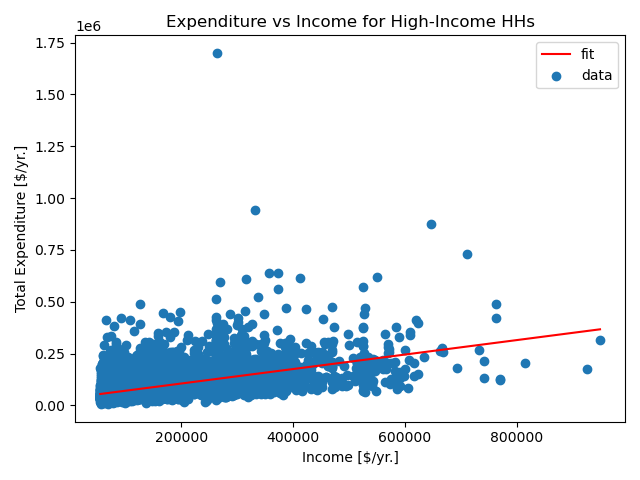
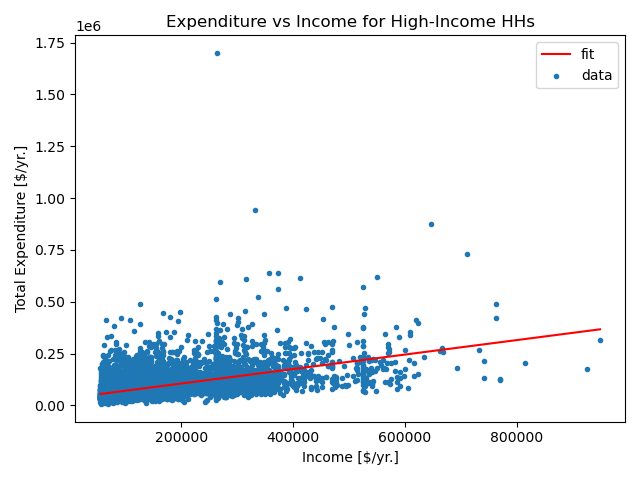
Smaller scatter points for clarity

diff --git a/HW2/SS340_HW2.py b/HW2/SS340_HW2.py
@@ -47,7 +47,7 @@ def run_regression(x, y, xlabel, ylabel, title, save_title):
     
     # plot the data with the regression line
     plt.figure()
-    plt.scatter(x, y, label="data")
+    plt.scatter(x, y, marker='.', label="data")
     plt.plot(x_cont, y_fit, 'r', label="fit")
     plt.xlabel(xlabel)
     plt.ylabel(ylabel)
